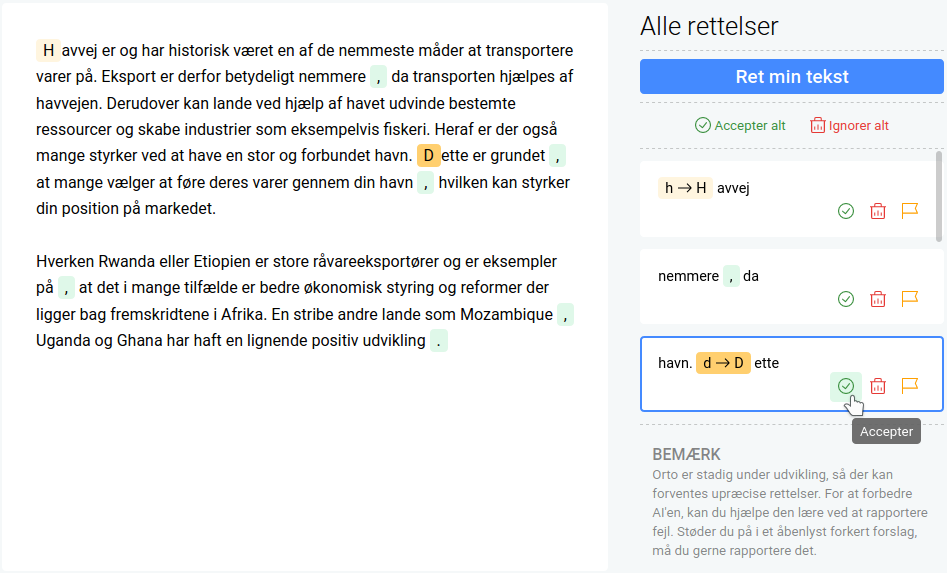
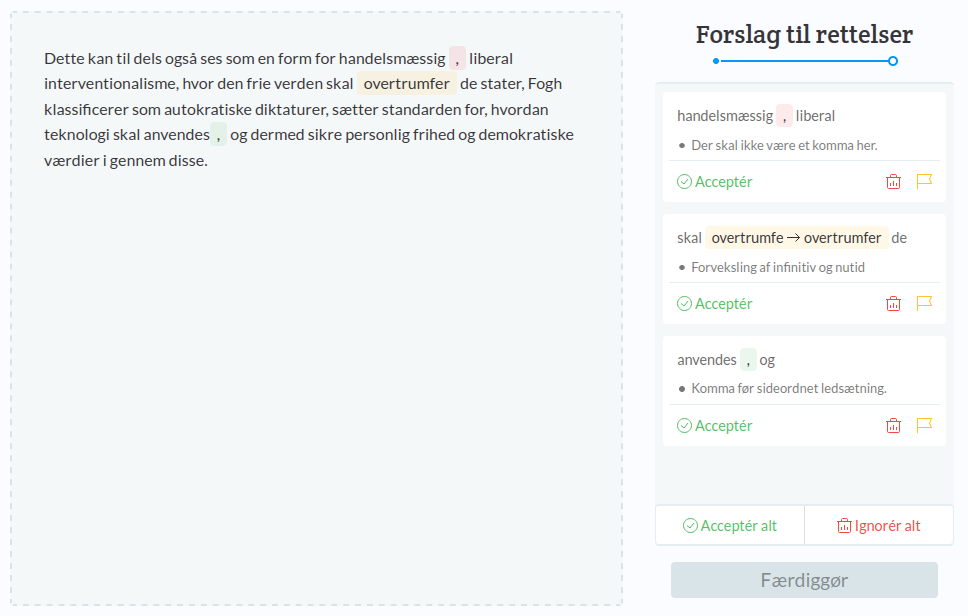
fix minor layout issue, update previews

diff --git a/template/page/editor.html b/template/page/editor.html
@@ -8,8 +8,8 @@
         <script src="/static/js/modal.js"></script>
 
         <script src="/static/js/mithril/mithril.min.js"></script>
-        <link rel="stylesheet" href="/static/css/editor.css?v=0.10.1-beta" />
-        <script src="/static/js/editor.js?v=0.10.1-beta"></script>
+        <link rel="stylesheet" href="/static/css/editor.css?v=0.10.2-beta" />
+        <script src="/static/js/editor.js?v=0.10.2-beta"></script>
     {{/inline}}
 
     {{#*inline "body"}}

diff --git a/public/static/css/landing.css b/public/static/css/landing.css
@@ -1,4 +1,4 @@
-@import "base.css?v=beta.0";
+@import "base.css?v=0.10.2-beta";
 
 #particles {
     position: fixed;
@@ -111,6 +111,9 @@ figcaption {
         align-content: center;
         grid-template-columns: 1fr;
         padding: 8px;
+    }
+    figure {
+        margin: 0;
     }
     .preview-desktop {
         display: none;

diff --git a/template/page/404.html b/template/page/404.html
@@ -3,7 +3,7 @@
     {{#*inline "head"}}
         <title>Page not found</title>
 
-        <link rel="stylesheet" href="/static/css/base.css?v=0.10.1-beta" />
+        <link rel="stylesheet" href="/static/css/base.css?v=0.10.2-beta" />
 
         <script src="/static/js/particles/particles.min.js"></script>
         <script defer="true">

diff --git a/template/page/index.html b/template/page/index.html
@@ -2,7 +2,7 @@
     {{#*inline "head"}}
         <title>Orto</title>
 
-        <link rel="stylesheet" href="/static/css/landing.css?v=0.10.1-beta" />
+        <link rel="stylesheet" href="/static/css/landing.css?v=0.10.2-beta" />
 
         <script src="/static/js/particles/particles.min.js"></script>
         <script defer="true">

diff --git a/public/static/css/base.css b/public/static/css/base.css
@@ -113,8 +113,8 @@ body {
 .page {
     display: flex;
     flex-direction: column;
-    min-height: 0;
-    min-width: 0;
+    /* min-height: 0; */
+    /* min-width: 0; */
     width: 100%;
     margin-left: auto;
     margin-right: auto;

diff --git a/public/static/css/editor.css b/public/static/css/editor.css
@@ -1,4 +1,4 @@
-@import "base.css?v=beta.0";
+@import "base.css?v=0.10.2-beta";
 
 main {
     display: flex;
